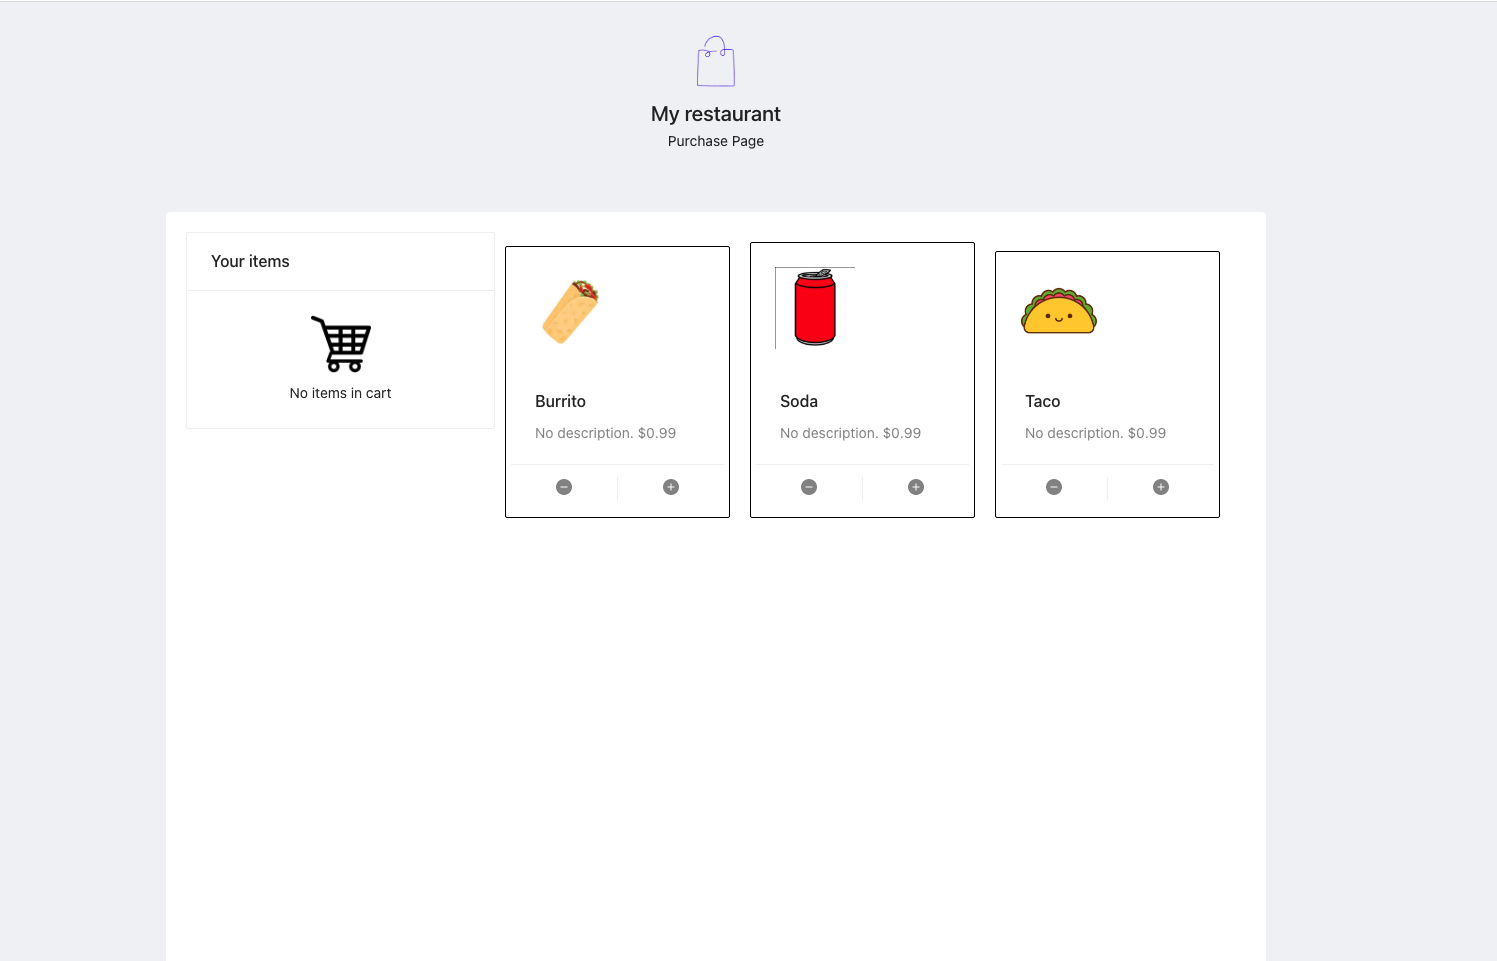
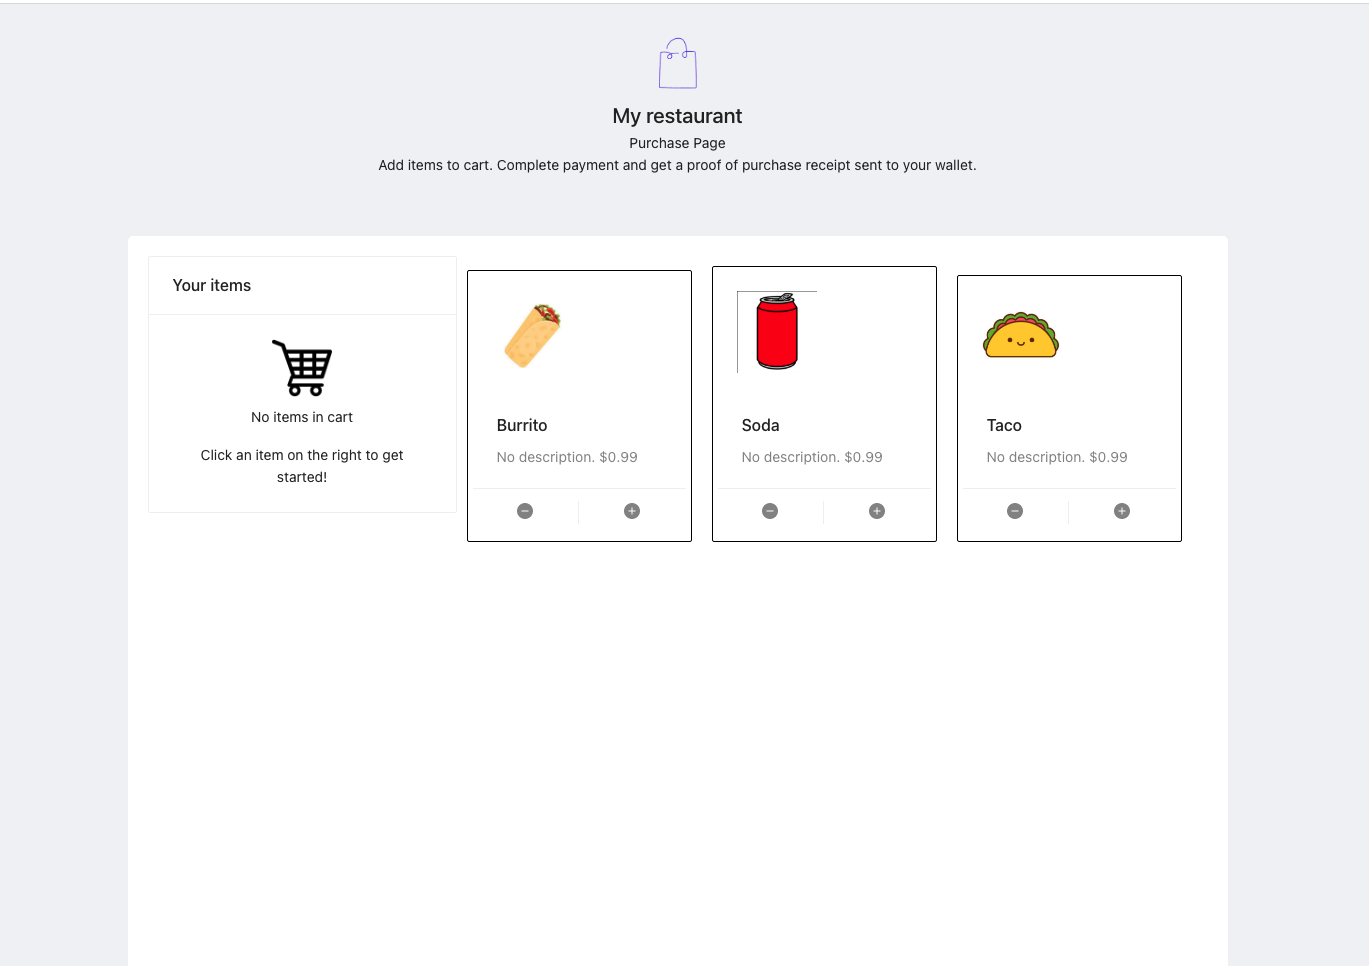
add logout on checkout completion

diff --git a/src/components/Salespage.js b/src/components/Salespage.js
@@ -12,7 +12,7 @@ import Invoice from "./Invoice/Invoice";
 import { loadStream } from "../util/ceramic";
 import { createReceiptNft } from "../util/nftport";
 
-function Salespage({ account, provider }) {
+function Salespage({ account, provider, login, logout }) {
   const { pageId } = useParams(); // cid
   const [data, setData] = useState({});
   const [loading, setLoading] = useState(false);
@@ -62,6 +62,10 @@ function Salespage({ account, provider }) {
 
   const completePayment = async (itemsToPurchase, amountEth) => {
     setError('')
+    if (!provider || !account) {
+      return await login(false)
+    }
+
     console.log('completePayment', amountEth)
     let nftResults = {};
     let res;
@@ -70,17 +74,17 @@ function Salespage({ account, provider }) {
 
     try {
       //   https://docs.nftport.xyz/docs/nftport/b3A6MjE2NjM5MDM-easy-minting-w-url
-      let res = await createReceiptNft(
+
+      res = await completePurchase(provider, contractAddress, pageId, itemsToPurchase, amountEth);
+      nftResults = await createReceiptNft(
         title,
         description,
-        paymentAddress,
+        account,
       );
-      nftResults["signatureNft"] = res.data || {}
-      const url = nftResults["transaction_external_url"];
-      res = await completePurchase(provider, contractAddress, url || pageId, itemsToPurchase, amountEth);
-      nftResults = { nftResults, ...res };
-      console.log('result', nftResults)
-      setResult(nftResults);
+      res["signatureNft"] = nftResults.data || {}
+      console.log('result', res)
+      setResult(res);
+      logout()
     } catch (e) {
       console.error("error checking out", e);
       // alert("Error completing salespage: " + JSON.stringify(e));
@@ -157,7 +161,7 @@ function Salespage({ account, provider }) {
         paymentAddress={paymentAddress}
     paid={!!result} name={data.pageTitle} items={activeItems} pay={completePayment}/>
     <br/>
-    <p className="float-right standard-button error-text">{error}</p>
+    <p className="centered standard-button error-text">Error completing purchase - {error}</p>
   </div>
   }
 
@@ -165,9 +169,8 @@ function Salespage({ account, provider }) {
       <div className="centered salespage-header">
           <img src={data.storeLogo || salespageLogo} className='page-logo'/>
           <h2 className="centered">{pageTitle}</h2>
-          <p>Purchase Page</p>
+          <div>Purchase Page<br/>Add items to cart. Complete payment and get a proof of purchase receipt sent to your wallet.</div>
       </div>
-
 
     <div className="container boxed white">
       <Row>
@@ -178,8 +181,9 @@ function Salespage({ account, provider }) {
           imageStyle={{
             height: 60,
           }}
-
-          description="No items in cart"/>}
+          description="No items in cart">
+            Click an item on the right to get started!
+            </Empty>}
           {activeItems.map((item, i) => {
             return <div className="itemrow">
               {item.name}&nbsp;<Tooltip title="Add modifier to item">

diff --git a/src/App.js b/src/App.js
@@ -105,7 +105,7 @@ function App() {
           <div className={`${!isCheckout ? "container" : ""}`}>
             <Routes>
               <Route path="/" element={<Home account={account} />} />
-              <Route path="/page/:pageId" element={<Salespage provider={provider} account={account} />} />
+              <Route path="/page/:pageId" element={<Salespage logout={logout} login={login} provider={provider} account={account} />} />
               <Route path="/create" element={<CreateSalespage provider={provider} account={account}/>} />
               <Route path="/history" element={<History />} />
             </Routes>

diff --git a/src/components/Home.js b/src/components/Home.js
@@ -6,10 +6,11 @@ import { useNavigate } from "react-router-dom";
 import { APP_DESC, CONNECT_PROMPT } from "../util/constants";
 import { CheckCircleOutlined, CheckCircleTwoTone } from "@ant-design/icons";
 
+
 const CHECKLIST_ITEMS = [
-  "Free Point of Sale hosting on IPFS and Ceramic",
-  "Completed salespages and transactions saved on Smart Contracts",
-  "No vendor agreements required",
+  "Free Point of Sale hosting on IPFS and Ceramic.",
+  "Completed salespages and transactions saved on Smart Contracts.",
+  "Customers check out via their mobile crypto wallets.",
 ];
 
 function Home({account}) {

diff --git a/src/components/Invoice/Invoice.js b/src/components/Invoice/Invoice.js
@@ -19,7 +19,6 @@ function Invoice({
   address,
   paymentAddress,
   paid,
-  name,
   ref,
   createdAt,
   logoUrl,
@@ -94,10 +93,9 @@ function Invoice({
               <table>
                 <tr>
                   <td>
-                    {storeName && <span>{storeName}<br/></span>}
+                    {storeName && <span><b>{storeName}</b><br/></span>}
                     Fulfilled by {APP_NAME}, Inc.
                     <br />
-                    {name}
                     {/* 12345 Sunny Road */}
                   </td>
 

diff --git a/README.md b/README.md
@@ -14,7 +14,7 @@ Inspired by platforms such as Square, Clover, and Toast - Salespage creates a Po
 
 Every purchase gets emitted as a smart contract event and transactions are generated as NFTs with receipts that can be presented in-store as proof of purchase.
 
-<!-- Live demo: <a href="" target="_blank"></a> -->
+<!-- Live demo: <a href="https://salespage-ekhr49.spheron.app/" target="_blank">https://salespage-ekhr49.spheron.app/</a> -->
 
 <!-- Video: <a href="" target="_blank"></a> -->
 
